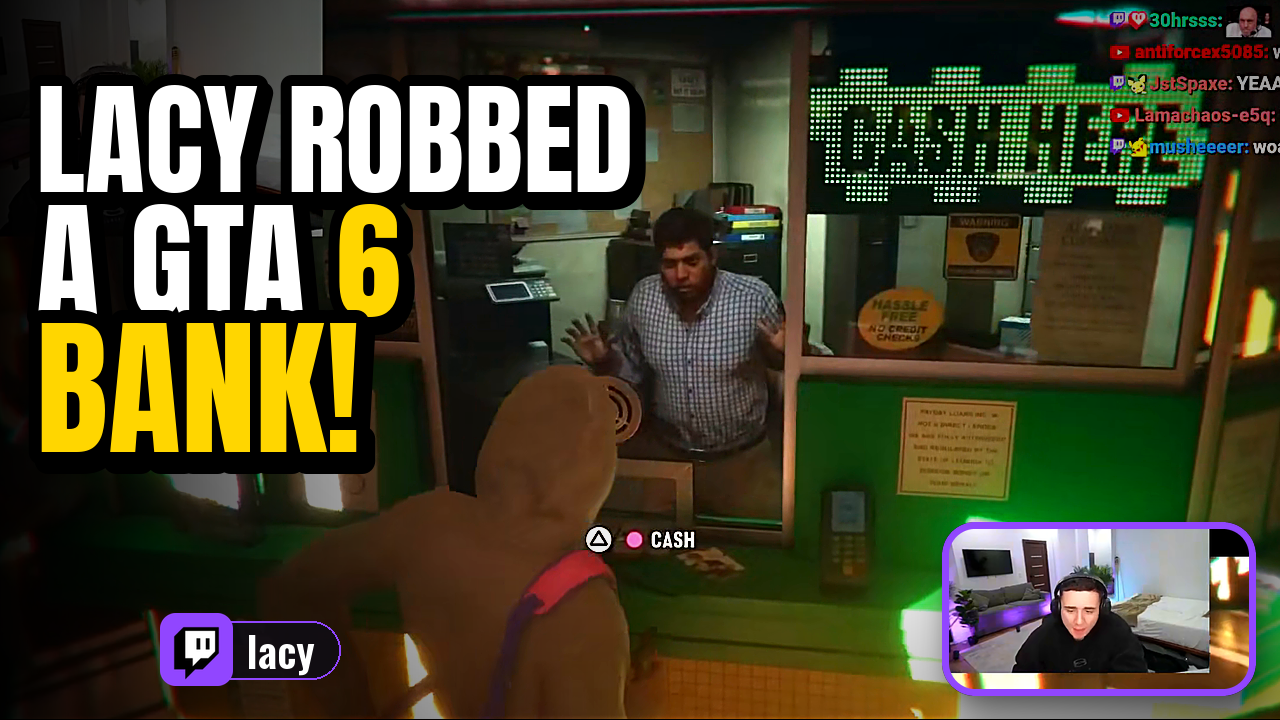
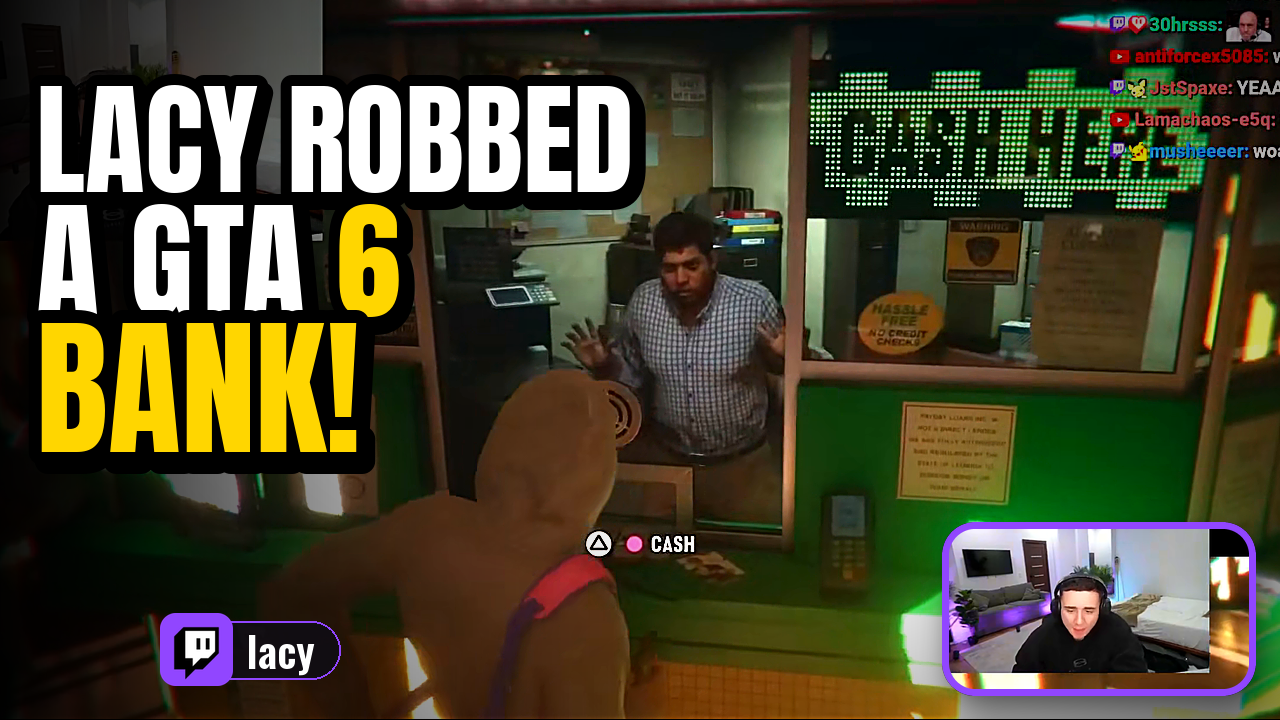
thumbnail.py: lower title by default, --shift to push the picture under it; Lacy vertical thumbnail fixed
Claude-Session: https://claude.ai/code/session_01F1xGQBR1VrKHa654yWifGj

diff --git a/shorts/gta6_template/thumbnail.py b/shorts/gta6_template/thumbnail.py
@@ -96,7 +96,7 @@ def main():
     ap.add_argument('clip'); ap.add_argument('out')
     ap.add_argument('--t', type=float, required=True); ap.add_argument('--text', required=True); ap.add_argument('--name', required=True)
     ap.add_argument('--cam'); ap.add_argument('--face-t', type=float); ap.add_argument('--cx', type=int, default=960)
-    ap.add_argument('--zoom', type=float, default=1.0); ap.add_argument('--cy', type=int, default=540)
+    ap.add_argument('--text-y', type=int, default=320); ap.add_argument('--shift', type=int, default=0); ap.add_argument('--zoom', type=float, default=1.0); ap.add_argument('--cy', type=int, default=540)
     a = ap.parse_args()
     parts = [p.strip().upper() for p in a.text.split('|')]
     full = grab(a.clip, a.t)
@@ -117,10 +117,14 @@ def main():
     lo = cw / 2 + ((x + w) if cam and x < sw / 2 else 0)            # keep the webcam/chat column out of the crop
     cx = int(min(max(a.cx * k - zx, lo if a.zoom == 1 else cw / 2), sw - cw / 2))
     g = src.crop((cx - cw // 2, 0, cx - cw // 2 + cw, sh)).resize((1080, 1920), Image.LANCZOS)
-    g = vignette(punch(g), 0.55); shade(g, 0, 820)
+    if a.shift:                                                   # push the picture down; dark blurred fill on top
+        top = g.crop((0, 0, 1080, 1920 - a.shift))
+        fill = g.resize((1080, 1920)).filter(ImageFilter.GaussianBlur(40))
+        g = fill; g.paste(top, (0, a.shift))
+    g = vignette(punch(g), 0.55); shade(g, 0, 820 + a.shift // 2)
     cv = Image.new('RGBA', (1080, 1920)); cv.paste(g)
     d = ImageDraw.Draw(cv)
-    lines(d, parts, 540, 230, 1000, [230, 200, 200], 'mm')
+    lines(d, parts, 540, a.text_y, 1000, [230, 200, 200], 'mm')
     if cam:
         ci = cam.resize((460, int(460 * cam.height / cam.width)), Image.LANCZOS)
         r = rounded(ci, 36, 10); paste_shadow(cv, r, (1080 - r.width - 34, 1880 - r.height - 150))
